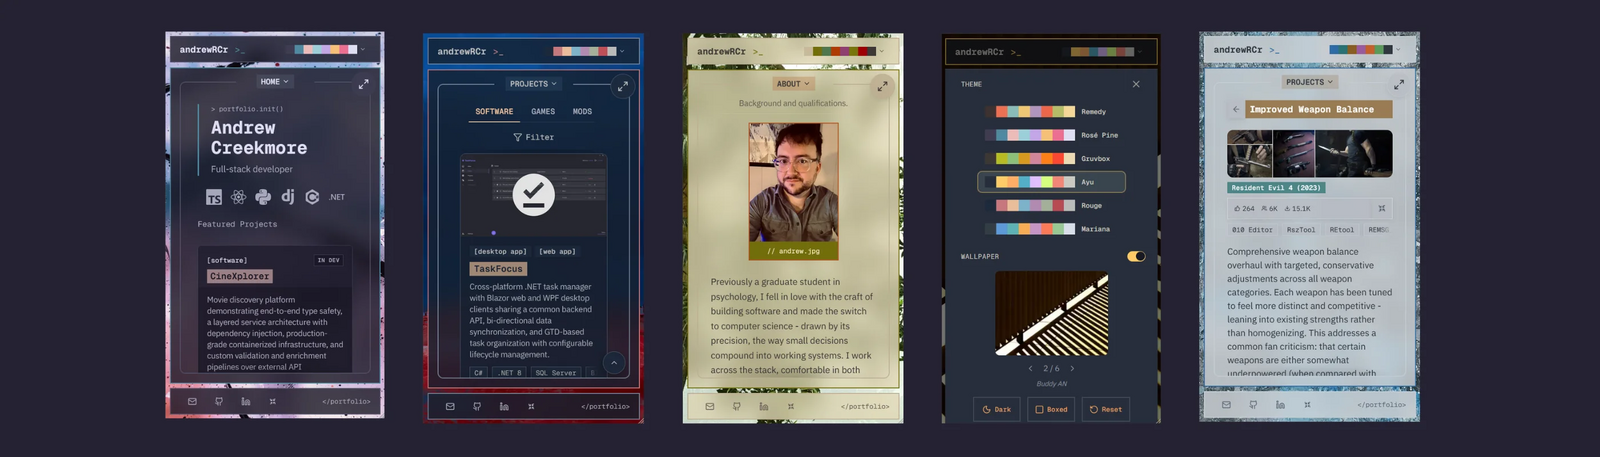
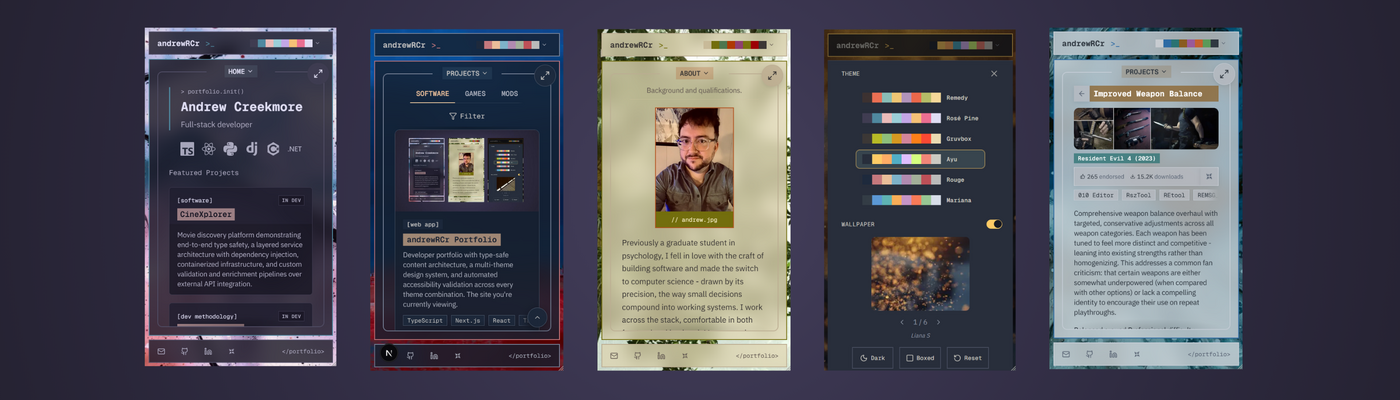
fix(ui): update portfolio images, README badges, drawer buttons
Replace arc-portfolio hero and thumbnail with updated mobile
screenshots. Refresh README hero, remove tech stack badges in
favor of Lighthouse + CI + dual license row, tighten em dash
usage across README and project data. Normalize drawer ghost
buttons to text-foreground (consistent with desktop popover).
Regenerate E2E visual regression baselines and blur placeholders.

Context: maintenance (atomic / no associated task list)

diff --git a/src/data/projects.ts b/src/data/projects.ts
@@ -9,7 +9,7 @@ import { Project } from "@/types/project";
 
 /** Shared feature bullet for projects developed with the ARC Framework. */
 export const ARC_FRAMEWORK_FEATURE =
-  "Built with [ARC Framework](/projects/software/arc-framework) — a spec-driven development methodology emphasizing focused human-agent collaboration";
+  "Built with [ARC Framework](/projects/software/arc-framework), a spec-driven development methodology emphasizing focused human-agent collaboration";
 
 export const projects: Project[] = [
   // ==========================================
@@ -182,8 +182,8 @@ export const projects: Project[] = [
     title: "andrewRCr Portfolio",
     slug: "arc-portfolio",
     description:
-      "A developer portfolio engineered as a production application. All content — project data, theme definitions, and " +
-      "site configuration — flows through typed, validated data models. The multi-theme design system persists user " +
+      "A developer portfolio engineered as a production application. All content (project data, theme definitions, and " +
+      "site configuration) flows through typed, validated data models. The multi-theme design system persists user " +
       "preferences to cookies via Server Actions, preventing flash of unstyled content on page load. Accessibility is " +
       "validated by automated testing across the component library and every theme combination.",
     shortDescription:
@@ -221,7 +221,7 @@ export const projects: Project[] = [
       "Type-safe content architecture with validated data models for project data, theme definitions, and site configuration",
       "Theme system built on semantic design tokens for color and layout, with WCAG AA contrast validation across all combinations",
       "Automated accessibility auditing with vitest-axe integrated across component test suites",
-      "Responsive layouts with distinct compositions across viewports — CSS-only breakpoints for hydration safety",
+      "Responsive layouts with distinct compositions across viewports; CSS-only breakpoints for hydration safety",
       "Orchestrated animation system with centralized timing driving intro sequences, page transitions, and shared element morphing",
       ARC_FRAMEWORK_FEATURE,
     ],

diff --git a/src/components/theme/ThemeControlDrawer.tsx b/src/components/theme/ThemeControlDrawer.tsx
@@ -110,7 +110,7 @@ export function ThemeControlDrawer() {
               e.currentTarget.blur();
             }}
             aria-label={`Current mode: ${theme}. Click to switch to ${theme === "dark" ? "light" : "dark"} mode`}
-            className="gap-1.5 min-h-11 min-w-[5.25rem] px-4 font-terminal text-xs border-2 border-border text-accent-high hover:bg-transparent hover:text-accent-high"
+            className="gap-1.5 min-h-11 min-w-[5.25rem] px-4 font-terminal text-xs border-2 border-border text-foreground hover:bg-transparent hover:text-accent-high"
           >
             {theme === "dark" ? (
               <>
@@ -131,7 +131,7 @@ export function ThemeControlDrawer() {
               e.currentTarget.blur();
             }}
             aria-label={`Current layout: ${layoutMode}. Click to switch to ${layoutMode === "full" ? "boxed" : "full"} layout`}
-            className="gap-1.5 min-h-11 min-w-[5.25rem] px-4 font-terminal text-xs border-2 border-border text-accent-high hover:bg-transparent hover:text-accent-high"
+            className="gap-1.5 min-h-11 min-w-[5.25rem] px-4 font-terminal text-xs border-2 border-border text-foreground hover:bg-transparent hover:text-accent-high"
           >
             {layoutMode === "full" ? (
               <>
@@ -153,7 +153,7 @@ export function ThemeControlDrawer() {
             }}
             aria-label="Reset all preferences to defaults"
             disabled={!hasCustomPreferences}
-            className="gap-1.5 min-h-11 min-w-11 px-4 font-terminal text-xs border-2 border-border text-accent-high hover:bg-transparent hover:text-accent-high"
+            className="gap-1.5 min-h-11 min-w-11 px-4 font-terminal text-xs border-2 border-border text-foreground hover:bg-transparent hover:text-accent-high"
           >
             <RotateCcw className="h-4 w-4" />
             <span>Reset</span>

diff --git a/README.md b/README.md
@@ -1,13 +1,6 @@
 # andrewRCr Portfolio
 
 <div align="center">
-  <img alt="Next.js" src="https://img.shields.io/badge/Next.js-black?logo=next.js&logoColor=white" />
-  <img alt="React" src="https://img.shields.io/badge/React-61DAFB?logo=react&logoColor=black" />
-  <img alt="TypeScript" src="https://img.shields.io/badge/TypeScript-3178C6?logo=typescript&logoColor=white" />
-  <img alt="Tailwind CSS" src="https://img.shields.io/badge/Tailwind_CSS-06B6D4?logo=tailwindcss&logoColor=white" />
-  <img alt="Framer Motion" src="https://img.shields.io/badge/Framer_Motion-0055FF?logo=framer&logoColor=white" />
-  <img alt="Vercel" src="https://img.shields.io/badge/Vercel-000000?logo=vercel&logoColor=white" />
-  <br>
   <a href="https://pagespeed.web.dev/analysis?url=https://andrewcreekmore.dev">
     <img alt="Lighthouse Performance"
       src="https://img.shields.io/badge/Performance-90%2B-brightgreen?logo=lighthouse&logoColor=white" /></a>
@@ -20,15 +13,17 @@
   <a href="https://pagespeed.web.dev/analysis?url=https://andrewcreekmore.dev">
     <img alt="Lighthouse SEO"
       src="https://img.shields.io/badge/SEO-100-brightgreen?logo=lighthouse&logoColor=white" /></a>
+  <br>
   <a href="https://github.com/andrewRCr/arc-portfolio/actions/workflows/ci.yml">
     <img alt="CI"
       src="https://github.com/andrewRCr/arc-portfolio/actions/workflows/ci.yml/badge.svg" /></a>
-  <img alt="License: MIT" src="https://img.shields.io/badge/License-MIT-blue" />
+  <img alt="Code: MIT" src="https://img.shields.io/badge/Code-MIT-blue" />
+  <img alt="Content: CC BY-NC 4.0" src="https://img.shields.io/badge/Content-CC_BY--NC_4.0-blue" />
   <br><br>
 </div>
 
-A developer portfolio engineered as a production application. All content — project data, theme
-definitions, and site configuration — flows through typed, validated data models. The multi-theme
+A developer portfolio engineered as a production application. All content (project data, theme
+definitions, and site configuration) flows through typed, validated data models. The multi-theme
 design system persists user preferences to cookies via Server Actions, preventing flash of unstyled
 content on page load. Accessibility is validated by automated testing across the component library
 and every theme combination.
@@ -47,13 +42,13 @@ and every theme combination.
 - Theme system built on semantic design tokens for color and layout, with WCAG AA contrast
   validation across all combinations
 - Automated accessibility auditing with vitest-axe integrated across component test suites
-- Responsive layouts with distinct compositions across viewports — CSS-only breakpoints for
+- Responsive layouts with distinct compositions across viewports; CSS-only breakpoints for
   hydration safety
 - Server-side theme resolution via Server Actions and cookies — layout and color state established
-  before first paint with zero layout shift
+  before first paint, zero layout shift
 - Orchestrated animation system with centralized timing driving intro sequences, page transitions,
-  and shared element morphing — with full reduced-motion support
-- Built with [ARC Framework](https://andrewcreekmore.dev/projects/software/arc-framework) — a
+  and shared element morphing, with full reduced-motion support
+- Built with [ARC Framework](https://andrewcreekmore.dev/projects/software/arc-framework), a
   spec-driven development methodology emphasizing focused human-agent collaboration
 
 ## Technology
@@ -67,9 +62,8 @@ and every theme combination.
 
 **Dual License:**
 
-- **Code:** MIT License — source code is open source and free to use
-- **Content:** CC BY-NC 4.0 — portfolio content (text, images, assets) requires attribution
-  and is for non-commercial use
+- **Code:** MIT License - free to use, modify, and distribute
+- **Content:** CC BY-NC 4.0 - requires attribution, non-commercial only
 
 See [LICENSE](LICENSE) for full details.
 
